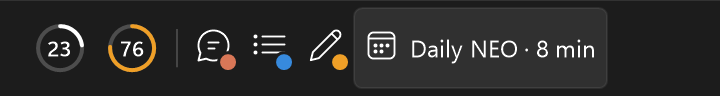
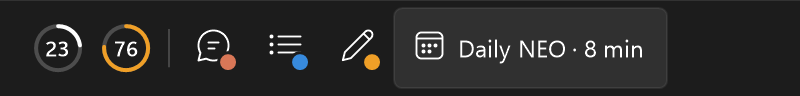
Separación de 20 px entre íconos y 10 px entre anillos; captura actualizada

diff --git a/tools/screenshots.cs b/tools/screenshots.cs
@@ -43,7 +43,7 @@ static class Screenshots
     // ---------- Taskbar ----------
     static Bitmap Taskbar(bool light)
     {
-        int w = (int)(360 * S), h = (int)(48 * S);
+        int w = (int)(400 * S), h = (int)(48 * S);
         var bmp = new Bitmap(w, h, PixelFormat.Format32bppArgb);
         Color bg = light ? Color.FromArgb(238, 238, 238) : Color.FromArgb(28, 28, 28), fg = light ? Color.Black : Color.White;
         using (var g = Graphics.FromImage(bmp))
@@ -52,26 +52,26 @@ static class Screenshots
             g.Clear(bg);
             using (var p = new Pen(light ? Color.FromArgb(220, 220, 220) : Color.FromArgb(50, 50, 50), S)) g.DrawLine(p, 0, 0, w, 0);
             float x = 12 * S, top = 4 * S, box = 40 * S;
-            Ring(g, x, top, 23, "23", fg, fg); x += 36 * S;
-            Ring(g, x, top, 76, "76", Warn, fg); x += 36 * S;
+            Ring(g, x, top, 23, "23", fg, fg); x += 34 * S;
+            Ring(g, x, top, 76, "76", Warn, fg); x += 34 * S;
             using (var p = new Pen(Color.FromArgb(46, fg), S)) g.DrawLine(p, x + 4.5f * S, h * 0.3f, x + 4.5f * S, h * 0.7f);
             x += 9 * S;
-            Glyph(g, x, top, GChat, fg, Clay, bg); x += 28 * S;
-            Glyph(g, x, top, GList, fg, Blue, bg); x += 28 * S;
-            Glyph(g, x, top, GEdit, fg, Warn, bg); x += 28 * S;
+            Glyph(g, x, top, GChat, fg, Clay, bg); x += 36 * S;
+            Glyph(g, x, top, GList, fg, Blue, bg); x += 36 * S;
+            Glyph(g, x, top, GEdit, fg, Warn, bg); x += 36 * S;
             // Calendario con hover, como cuando se pasa el mouse.
             string label = "Daily NEO · 8 min";
             float lw;
             using (var f = Text(12)) lw = g.MeasureString(label, f, PointF.Empty, StringFormat.GenericTypographic).Width;
-            var hov = new RectangleF(x, top, 6 * S + 16 * S + 6 * S + lw + 6 * S, box);
+            var hov = new RectangleF(x, top, 10 * S + 16 * S + 6 * S + lw + 12 * S, box);
             using (var path = Round(hov, 4 * S))
             {
                 using (var b = new SolidBrush(light ? Color.FromArgb(180, 255, 255, 255) : Color.FromArgb(22, 255, 255, 255))) g.FillPath(b, path);
                 using (var p = new Pen(light ? Color.FromArgb(14, 0, 0, 0) : Color.FromArgb(18, 255, 255, 255), S)) g.DrawPath(p, path);
             }
-            DrawGlyph(g, new RectangleF(x + 6 * S, top + 12 * S, 16 * S, 16 * S), GCal, fg);
+            DrawGlyph(g, new RectangleF(x + 10 * S, top + 12 * S, 16 * S, 16 * S), GCal, fg);
             using (var f = Text(12)) using (var b = new SolidBrush(fg))
-                g.DrawString(label, f, b, new RectangleF(x + 28 * S, top, lw + 4 * S, box),
+                g.DrawString(label, f, b, new RectangleF(x + 32 * S, top, lw + 4 * S, box),
                     new StringFormat(StringFormat.GenericTypographic) { LineAlignment = StringAlignment.Center });
         }
         return bmp;
@@ -79,7 +79,7 @@ static class Screenshots
 
     static void Ring(Graphics g, float x, float top, float value, string text, Color arc, Color fg)
     {
-        float d = 24 * S, stroke = 2 * S, cx = x + 6 * S, cy = top + 8 * S;
+        float d = 24 * S, stroke = 2 * S, cx = x + 5 * S, cy = top + 8 * S;
         var c = new RectangleF(cx + stroke / 2, cy + stroke / 2, d - stroke, d - stroke);
         using (var p = new Pen(Color.FromArgb(55, fg), stroke)) g.DrawEllipse(p, c);
         using (var p = new Pen(arc, stroke) { StartCap = LineCap.Round, EndCap = LineCap.Round }) g.DrawArc(p, c, -90, 360 * value / 100);
@@ -89,7 +89,7 @@ static class Screenshots
 
     static void Glyph(Graphics g, float x, float top, string glyph, Color fg, Color badge, Color bg)
     {
-        var icon = new RectangleF(x + 6 * S, top + 12 * S, 16 * S, 16 * S);
+        var icon = new RectangleF(x + 10 * S, top + 12 * S, 16 * S, 16 * S);
         DrawGlyph(g, icon, glyph, fg);
         float d = 8 * S, ring = 1.5f * S, cx = icon.Right - S, cy = icon.Bottom - S;
         using (var b = new SolidBrush(bg)) g.FillEllipse(b, cx - d / 2 - ring, cy - d / 2 - ring, d + 2 * ring, d + 2 * ring);

diff --git a/TaskbarMonitor.cs b/TaskbarMonitor.cs
@@ -1,4 +1,4 @@
-// TaskBar Monitor: CPU y RAM en anillos sobre el lado izquierdo de la barra de tareas, más indicadores que aparecen
+// TaskBar Monitor: CPU y RAM en anillos sobre el lado izquierdo de la barra de tareas, más indicadores que aparecen
 // solo cuando hay algo que mostrar (compilación, sesiones de Claude, próxima reunión, Jira y repositorios con
 // cambios). Al pasar el mouse sobre cada indicador se abre su panel, que se puede usar (detener procesos, abrir
 // tickets, unirse a la reunión...). Un clic en un indicador hace su acción (CPU/RAM abren el Administrador de tareas,
@@ -3021,7 +3021,8 @@ class MonitorForm : Form
     float SeparatorSpace { get { return 9 * scale; } }
     float Slot { get { return Math.Min(24 * scale, BoxH - 6 * scale); } } // 24 px: el espacio del ícono, como en los botones nativos
     float Pad { get { return (BoxH - Slot) / 2; } }
-    float HPad { get { return 6 * scale; } }
+    float HPad { get { return 10 * scale; } }
+    float RingPad { get { return 5 * scale; } }
     float RingD { get { return Slot; } }
     float GlyphSize { get { return 16 * scale; } }
 
@@ -3060,7 +3061,7 @@ class MonitorForm : Form
         // Solo el calendario lleva texto, y solo cuando hay una reunión en curso o cerca.
         // Relleno horizontal de 4 px, como el botón "Mostrar íconos ocultos": glifos en 24 px, anillos en 32 px.
         if (vertical) return BoxH;
-        if (key == "cpu" || key == "ram") return HPad + RingD + HPad;
+        if (key == "cpu" || key == "ram") return RingPad + RingD + RingPad;
         if (key != "meet" || Line(key) == "") return HPad + GlyphSize + HPad;
         return HPad + GlyphSize + 6 * scale + Measure(g, Line(key)) + HPad + 2 * scale;
     }

diff --git a/README.md b/README.md
@@ -14,7 +14,7 @@ indicadores que aparecen solo cuando hay algo que mostrar.
 
 Doble clic o clic derecho en el widget abre **Ajustes**, donde cada persona configura lo suyo. Todo se aplica al momento.
 Para moverlo, arrastrarlo a lo largo de la barra de tareas: la posición se recuerda. Los íconos llevan un espaciado
-con 6 px a cada lado.
+con 10 px a cada lado (5 px en los anillos).
 
 ## Capturas
 
